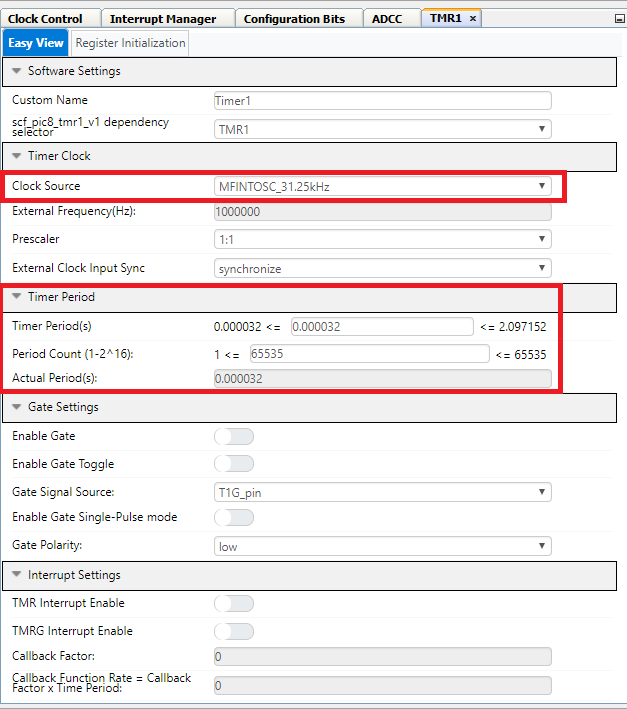
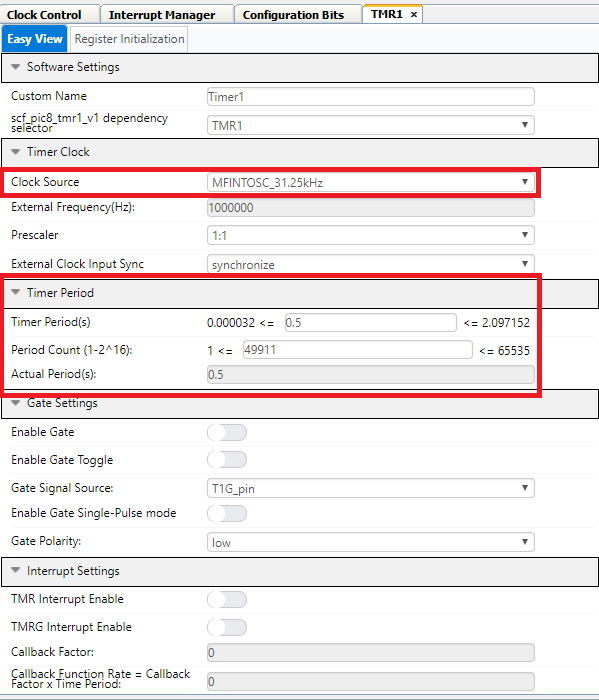
MPAE-12734 TMR1 configuration picture updated.  Improve ormatting on data visualzer image and plot variable image.

Changed region(s): [[0.0, 0.0, 1.0, 0.99], [0.9616, 0.39, 1.0, 0.45], [0.8414, 0.66, 0.9015, 0.72]]

diff --git a/PIC18F57Q43-analog-read-serial-write-mplab-mcc.X/mcc_generated_files/timer/src/tmr1.c b/PIC18F57Q43-analog-read-serial-write-mplab-mcc.X/mcc_generated_files/timer/src/tmr1.c
@@ -85,10 +85,10 @@ void Timer1_Initialize(void)
     T1GATE = 0x0;
     //TMRCS MFINTOSC_31.25kHz; 
     T1CLK = 0x6;
-    //TMRH 255; 
-    TMR1H = 0xFF;
-    //TMRL 255; 
-    TMR1L = 0xFF;
+    //TMRH 194; 
+    TMR1H = 0xC2;
+    //TMRL 247; 
+    TMR1L = 0xF7;
 
     // Load the TMR1 value to reload variable
     timer1ReloadVal=(uint16_t)((TMR1H << 8) | TMR1L);

diff --git a/README.md b/README.md
@@ -52,6 +52,7 @@ In the *Device Resources* window scroll to find *ADCC* click the dropdown arrow 
 The ADCC was used in this code example to periodically measure the analog channel RA0 (POT) which is connected to a 10kΩ potentiometer on the POT3 Click board. The ADCC was programmed to use Timer1 as an auto-conversion trigger in order to core-independently perform a conversion every 500ms. Additionally, the computation feature of the ADCC was utilized in this example to perform a burst average conversion core independently every time the ADC gets triggered. The ADCC was setup in such a way where it takes 32 consecutive conversions and accumulates the results whenever triggered, and then automatically divides the results by 32 by right shifting the accumulated value by 5 to provide the filtered average ADC result. The MPLAB Code Configurator (MCC) was used to setup the ADCC module for this code example as shown below.
 
 ![MCC - ADCC clock](images/adc_clock.png)
+
 ![MCC - ADCC computation](images/adc_computation.png)
 
 ## Timer 1 (TMR1) Module
@@ -108,6 +109,7 @@ After programming the device we would like to use the *Data Visualizer* to see t
 Configure the device with **9600** baud rate and connect to it.
 
 If you have to install the *Data Visualizer* plugin click on Tools => Plugins => Available plugins. Select checkbox for MPLAB Data Visualizer click on Intall button. To start *Data Visualizer* click the button as shown below
+
 ![Data Visualizer - Baud and Connect](images/data_visualizer.png)
 
 The plugin shows up in the kit window on it's own tab.
@@ -135,6 +137,7 @@ To be able to graph the measurement, click *Variable Streamers*. Select PIC18F57
 ![Data Visualizer - Graph creation](images/plot_streaming_data_from_com.png)
 
 *Plot variable*.
+
 ![Data Visualizer - Graph creation](images/plot_streaming_data_from_com1.png)
 
 When you have done this, you would expect to get a similar output as the graph above.
